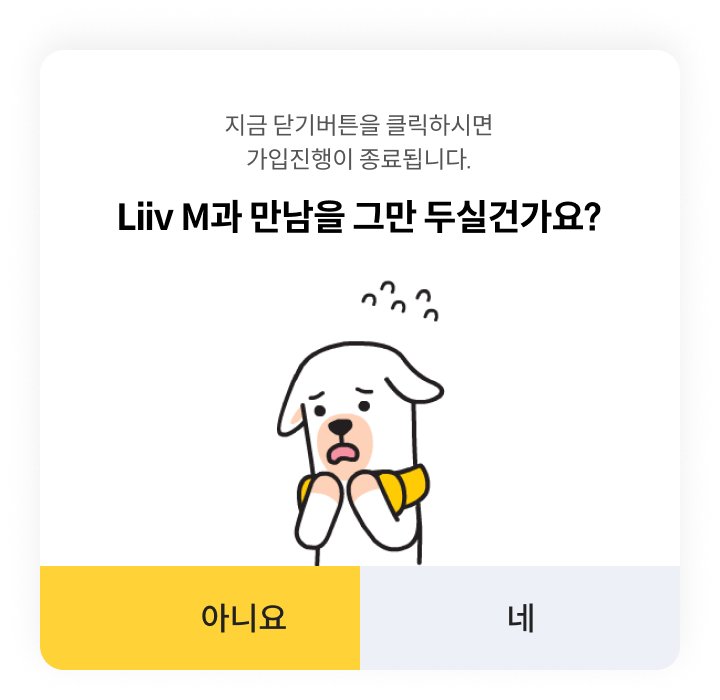
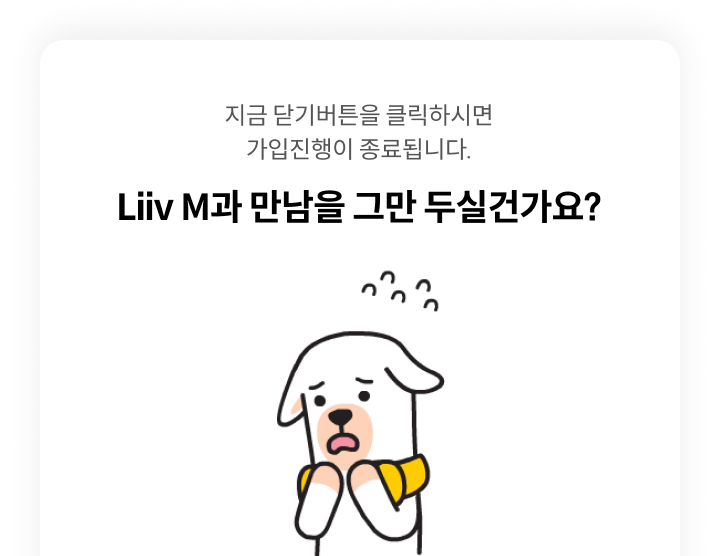
leave팝업, CSS수정, JS링크 함수 수정

Changed region(s): [[0.0306, 0.4892, 0.6417, 1.0], [0.1528, 0.1529, 0.8556, 0.4586], [0.7028, 0.8561, 0.7639, 0.9173]]

diff --git a/tobe_usim_join/css/style.css b/tobe_usim_join/css/style.css
@@ -193,6 +193,7 @@ input:disabled,
 
 /** header ************/
 header{position:fixed; left:50%; top:0; width:100%; max-width:360px; transform:translateX(-50%); z-index:11;}
+.link__leave{position:absolute; right: 1rem; top: 1rem; display:block; width:4.5rem; height:4rem; text-indent:-9999px;}
 
 /** footer ************/
 footer{position:fixed; left:50%; bottom:0; width:100%; max-width:360px; transform:translateX(-50%); z-index:9;}
@@ -269,15 +270,6 @@ form.jointype4{padding:0 2rem;}
 .form__item.focus ::placeholder{color:#999;}
 .form__item.focus label{line-height:initial; font-size:1.4rem; color:#222; font-weight:700;}
 
-/** section__joinhelp *******************************/
-.section__joinhelp{position:absolute; left:0; top:0; width:100%; height: 100%; background:rgba(0,0,0, 0.6); z-index:999;}
-.section__joinhelp-wrap{position:absolute; left:0; bottom:0; width:100%; background:#fff; border-radius:1.2rem 1.2rem 0 0; padding:0 0 2rem; box-shadow:0 0 2rem rgba(0,0,0, 0.07)}
-.section__joinhelp-wrap .form__group{padding-top:3rem;}
-.section__joinhelp-wrap .check-type1{padding:0 2rem;}
-.section__joinhelp-btn{padding:0 2rem;}
-.section__joinhelp-close{position:absolute; right:2rem; top:2rem; width:2.3rem; height:2.3rem;}
-.section__joinhelp.open{display: block; animation:pageLoad .5s;}
-
 
 /** section__joinauth *********************/
 .section__joinauth-ttl{padding:1rem 0 0;}
@@ -313,6 +305,23 @@ form.jointype4{padding:0 2rem;}
 .section__joincard-card .form__group{padding:4rem 0 0;}
 
 
+/** section__joinhelp toast *******************************/
+.section__joinhelp{position:absolute; left:0; top:0; width:100%; height: 100%; background:rgba(0,0,0, 0.6); z-index:999;}
+.section__joinhelp-wrap{position:absolute; left:0; bottom:0; width:100%; background:#fff; border-radius:1.2rem 1.2rem 0 0; padding:0 0 2rem; box-shadow:0 0 2rem rgba(0,0,0, 0.07)}
+.section__joinhelp-wrap .form__group{padding-top:3rem;}
+.section__joinhelp-wrap .check-type1{padding:0 2rem;}
+.section__joinhelp-btn{padding:0 2rem;}
+.section__joinhelp-close{position:absolute; right:2rem; top:2rem; width:2.3rem; height:2.3rem;}
+.section__joinhelp.open{display: block; animation:pageLoad .5s;}
+
+
+/** section__leave popup ************************************/
+.section__leave{position:absolute; left:0; top:0; width:100%; height: 100%; background:rgba(0,0,0, 0.6); z-index:999; align-items:center; justify-content: center;}
+.section__leave-btn{display:flex; align-items:center; justify-content: center;}
+.section__leave-btn a{flex:0 0 50%;}
+.section__leave.open{display: flex; animation:pageLoad .5s;}
+
+
 
 
 
@@ -326,9 +335,9 @@ form.jointype4{padding:0 2rem;}
 .result__wrap .result__item + .result__item {border-top:1px solid #E7E8EA}
 .rdo__result {color:#222; font-size:1.4rem; line-height:1.8rem; letter-spacing:-0.03rem;}
 
-.dim {display:none; position:fixed; left:0; right:0; top:0; bottom:0; max-width:360px; margin:0 auto; background:rgba(0,0,0,0.6); z-index:10}
+/* .dim {display:none; position:fixed; left:0; right:0; top:0; bottom:0; max-width:360px; margin:0 auto; background:rgba(0,0,0,0.6); z-index:10}
 .dim.active {display:block}
 .pop__layer {display:none; position:fixed; left:0; right:0; top:0; bottom:0; z-index:100}
 .pop__layer.active {display:block}
 .pop__layer > img {position:absolute; top:26%; left:calc(50% - 180px); max-width:360px!important; margin:0 auto}
-.btn__close {position:absolute; display:block; width:6rem; height:6rem; top:0; right:0}
+.btn__close {position:absolute; display:block; width:6rem; height:6rem; top:0; right:0} */

diff --git a/tobe_usim_join/js/common.js b/tobe_usim_join/js/common.js
@@ -8,16 +8,16 @@ window.addEventListener("load", ()=>{
 
     containerPad();
     window.addEventListener("resize", containerPad);
-
-    if(isMobile){
-        document.querySelector("body").classList.add("mobile");
-        // getFootPad();
-        // window.addEventListener("resize", getFootPad);
-    }
+    isMobile ? document.querySelector("body").classList.add("mobile") : null;   // mobile check
     
+    // ink__item
     const linkItem = Array.from(document.querySelectorAll(".link__item"));
     linkItem.forEach((item)=>{
-        item.addEventListener("click", (e)=>{ e.preventDefault(); pageChange(item.dataset.link) })
+        item.addEventListener("click", (e)=>{
+            e.preventDefault();
+            if( $(item).hasClass("disabled") || $(item).attr("disabled") !== undefined  ){ return } // disabled check
+            pageChange(item.dataset.link)
+        })
     })
 
     // step1 유심 라디오버튼 임시
@@ -40,26 +40,24 @@ window.addEventListener("load", ()=>{
     })
 
     // close 버튼 팝업
-    const btnClose = document.querySelector('header .btn__close');
-    const leavepop = document.querySelector('#leave__pop');
-    const dim = document.querySelector('.dim');
+    // const btnClose = document.querySelector('header .btn__close');
+    // const leavepop = document.querySelector('#leave__pop');
+    // const dim = document.querySelector('.dim');
 
-    btnClose.addEventListener("click", function(e){
-        e.preventDefault;
-        leavepop.classList.toggle("active");
-        dim.classList.toggle("active");
-    });
-    leavepop.addEventListener("click", function(e){
-        e.preventDefault;
-        leavepop.classList.toggle("active");
-        dim.classList.toggle("active");
-    });
+    // btnClose.addEventListener("click", function(e){
+    //     e.preventDefault;
+    //     leavepop.classList.toggle("active");
+    //     dim.classList.toggle("active");
+    // });
+    // leavepop.addEventListener("click", function(e){
+    //     e.preventDefault;
+    //     leavepop.classList.toggle("active");
+    //     dim.classList.toggle("active");
+    // });
 })
 
 // 모바일 100vh 대응
-const setVh = () => {
-    document.documentElement.style.setProperty('--vh', `${window.innerHeight}px`);
-};
+const setVh = () => { document.documentElement.style.setProperty('--vh', `${window.innerHeight}px`) };
 
 // mobile check
 function chkMobile(agent) {
@@ -187,7 +185,7 @@ $(document).ready(function(){
         if( count < 1 ){ $(this).parents(".form__item").removeClass("active"); }
     })
 
-    // help open
+    // help toast open
     $(document).find(".link__help").on("click", function(e){
         e.preventDefault();
         $(document).find(".section__joinhelp").addClass("open");
@@ -196,5 +194,15 @@ $(document).ready(function(){
     $(document).find(".link__help-close").on("click", function(e){
         e.preventDefault();
         $(document).find(".section__joinhelp").removeClass("open");
+    })
+
+    // leave popup open
+    $(document).find(".link__leave").on("click", function(e){
+        e.preventDefault();
+        $(document).find(".section__leave").addClass("open");
+    })
+    $(document).find(".link__leave-close").on("click", function(e){
+        e.preventDefault();
+        $(document).find(".section__leave").removeClass("open");
     })
 })

diff --git a/tobe_usim_join/index.html b/tobe_usim_join/index.html
@@ -23,13 +23,14 @@
                 <a href="#" class="link__item" data-link="section__jointype">section__jointype 으로 링크</a>
             </div>
             <footer>
-                <div class="foot__btn"><a href="#" class="link__item" data-link="section__jointype"><img src="./img/btn-next.png"></a></div>
+                <div class="foot__btn"><a href="#" class="link__item disabled" data-link="section__jointype"><img src="./img/btn-next.png"></a></div>
             </footer>
         </section>
 
         <!-- 가입자 유형선택 1 -->
         <section class="content__section section__jointype">
             <header>
+                <a href="#" class="link__leave">닫기</a>
                 <img src="./img/jointype-head.png">
             </header>
             <div class="container__wrap">
@@ -478,6 +479,24 @@
                 <div><img src="./img/joinhelp-text.png"></div>
                 <div class="section__joinhelp-btn"><a href="#" class="link__help-close"><img src="./img/btn-consult.png"></a></div>
             </div>
+        </section>
+
+        <!-- Liiv M과 만남을 그만 두실건가요? -->
+        <section class="content__section section__leave">
+            <div class="section__leave-wrap">
+                <img src="./img/img_leave_pop.png">
+                <div class="section__leave-btn">
+                    <a href="#" class="link__leave-close"><img src="./img/img_leave_n.png"></a>
+                    <a href="#" class="link__leave-close"><img src="./img/img_leave_y.png"></a>
+                </div>
+            </div>
+
+
+            <!-- <div class="dim"></div>
+            <div class="pop__layer" id="leave__pop">
+                <img src="./img/img_leave_pop.png" alt="">
+            </div> -->
+
         </section>
 
     </div>

diff --git a/tobe_usim_join/step1.html b/tobe_usim_join/step1.html
@@ -328,10 +328,10 @@
             </footer>
         </section>
 
-        <div class="dim"></div>
+        <!-- <div class="dim"></div>
         <div class="pop__layer" id="leave__pop">
             <img src="./img/img_leave_pop.png" alt="">
-        </div>
+        </div> -->
     </div>
     <div class="homebar mobile-hidden"></div>
 </body>
